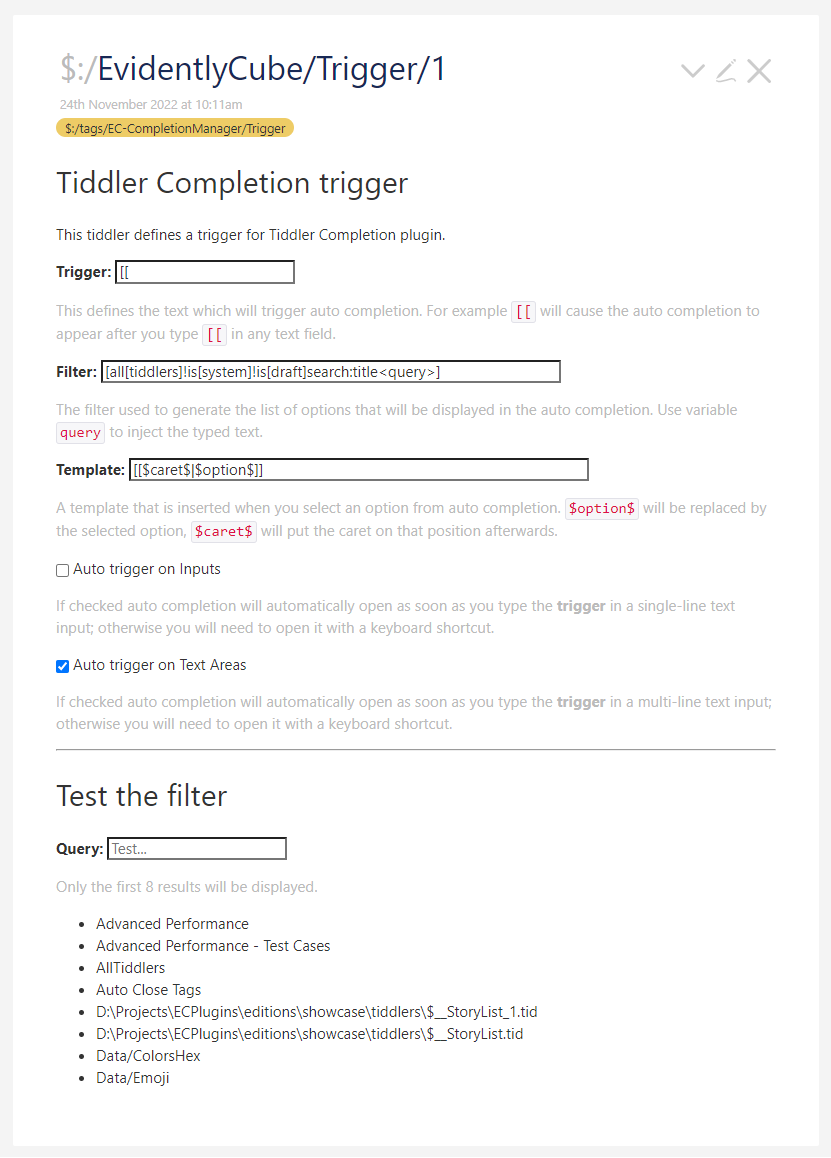
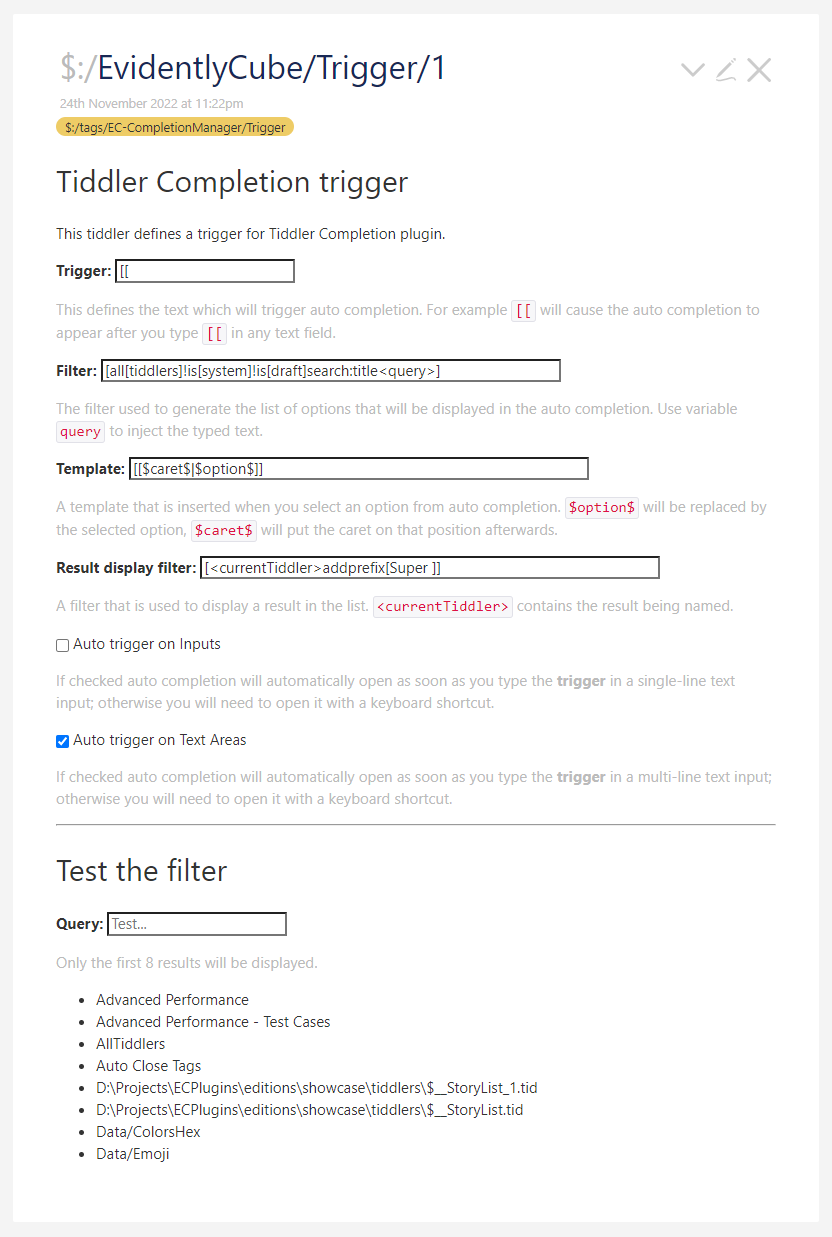
Allow customizing how suggestions are displayed

Changed region(s): [[0.0602, 0.0311, 0.9326, 0.9637], [0.9025, 0.0311, 0.9326, 0.0933], [0.8123, 0.0311, 0.8424, 0.0622]]

diff --git a/plugin/tiddlers/completion-api.js b/plugin/tiddlers/completion-api.js
@@ -105,6 +105,7 @@ API for the modal
 
 		$tw.wiki.setText(DATA_TIDDLER_NAME, 'show', null, "1");
 		$tw.wiki.setText(DATA_TIDDLER_NAME, 'style', null, newStyle);
+		$tw.wiki.setText(DATA_TIDDLER_NAME, 'display-filter', null, trigger.displayFilter);
 	};
 
 	EC_TiddlerCompletion.prototype.finishCompletion = function () {
@@ -223,6 +224,7 @@ API for the modal
 
 			this.options.triggers.push({
 				filter: tiddlerFields.filter,
+				displayFilter: tiddlerFields['display-filter'],
 				trigger: trigger,
 				triggerLastCharacter: trigger.charAt(trigger.length - 1),
 				insertTemplate: insertTemplate,

diff --git a/README.md b/README.md
@@ -7,8 +7,9 @@
 A versatile, customizable and easy to use auto completion plugin for TiddlyWiki.
 
 * Define your own triggers
-** Customize the filter which retrieves the results
+** Customize the filter which retrieves the suggestions
 ** Customize template used for inserting the selected option
+** Customize how the suggestions look in the completion window
 ** Control auto-triggering separately for inputs and text areas
 * Clear interface for editing the triggers
 * Manually open the auto completion with customizable keyboard shortcut
